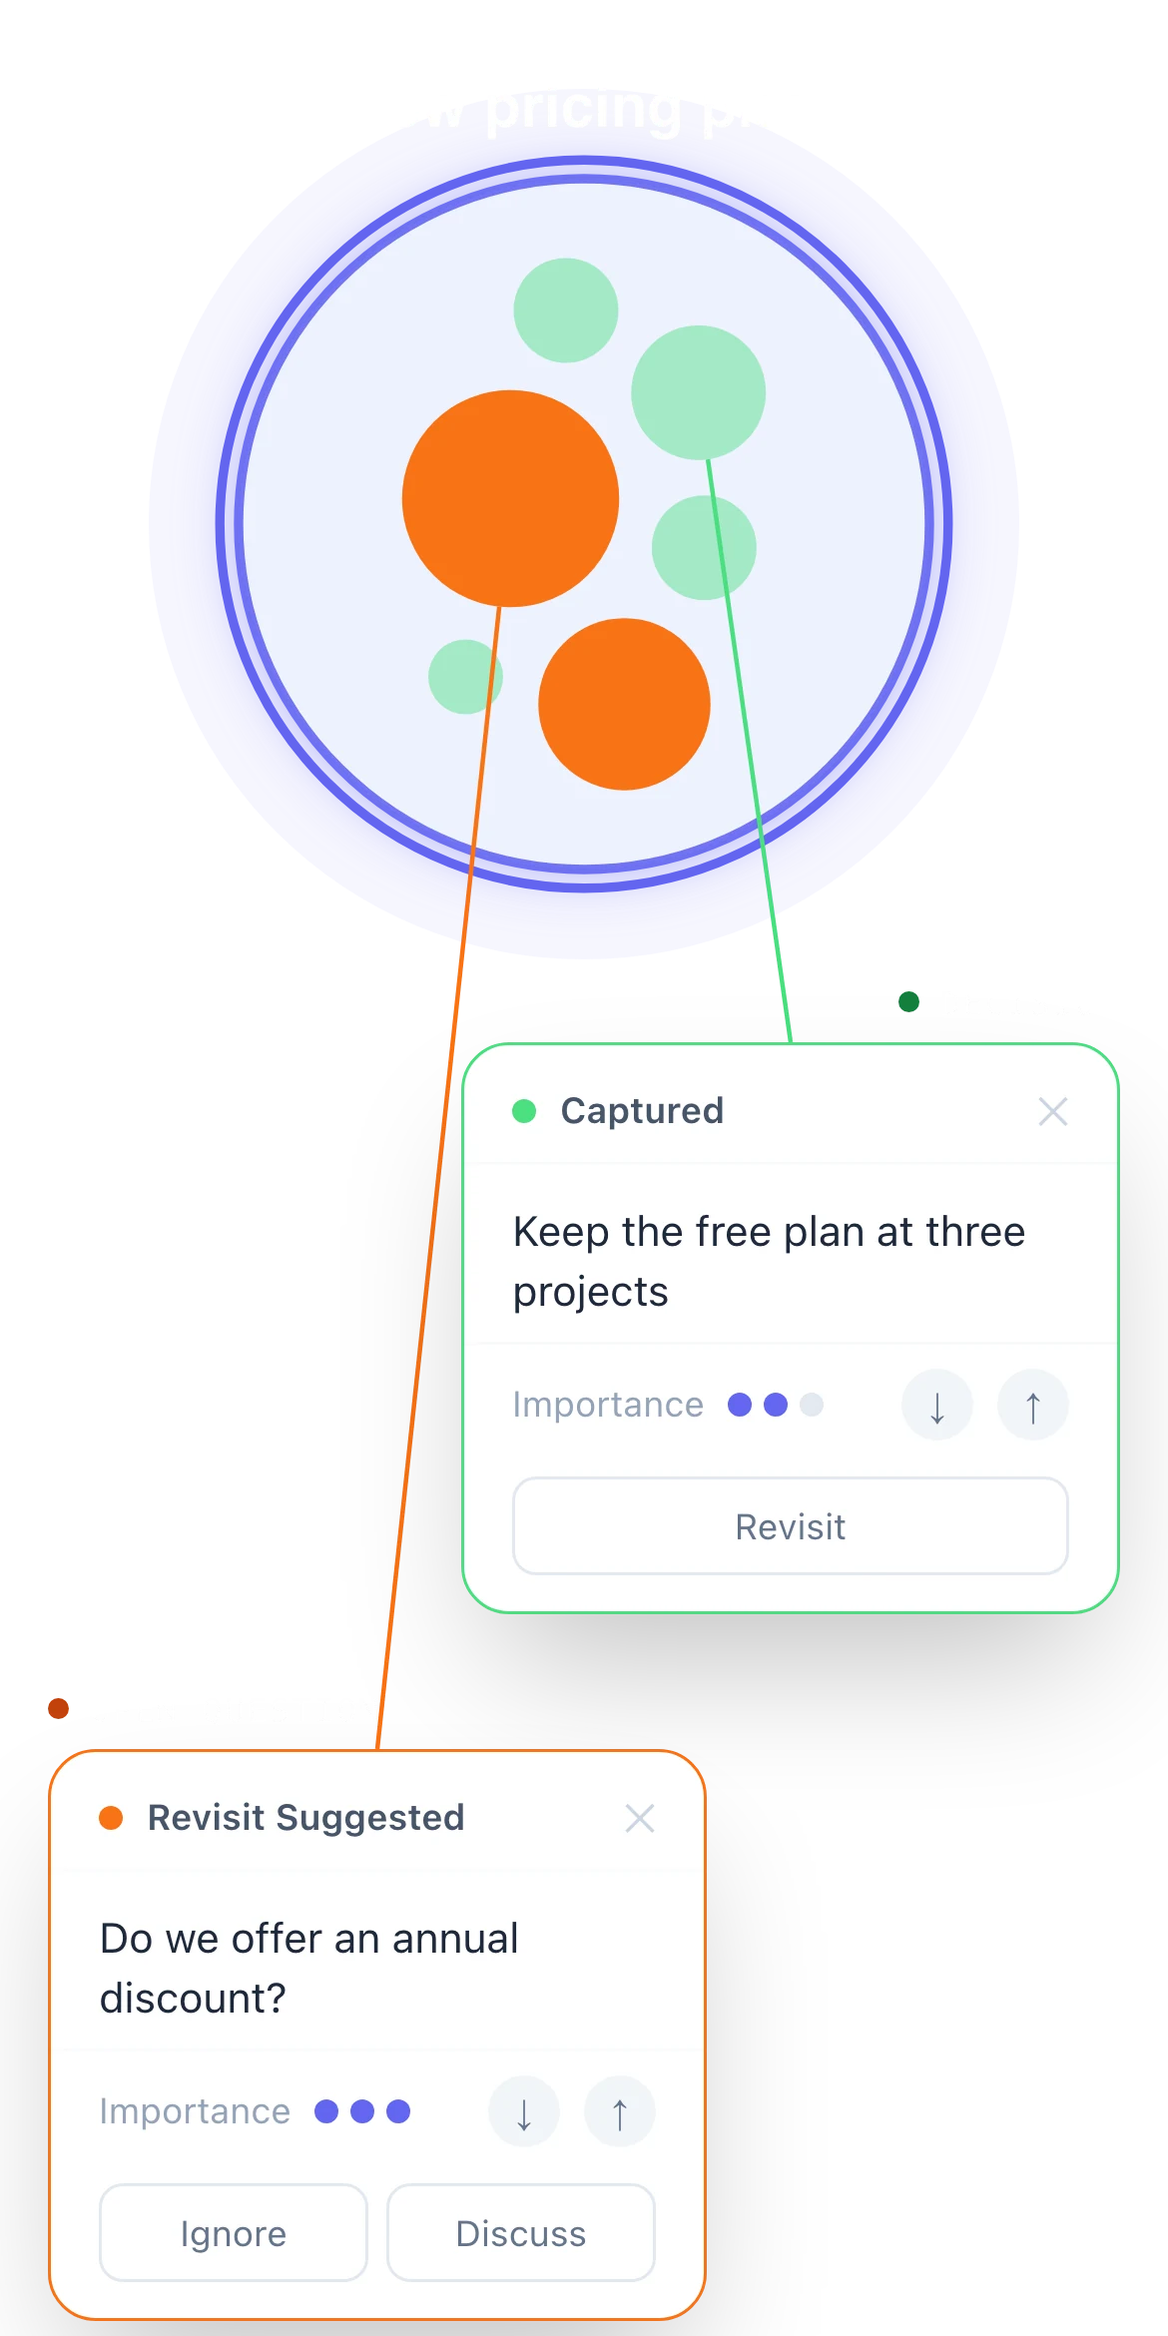
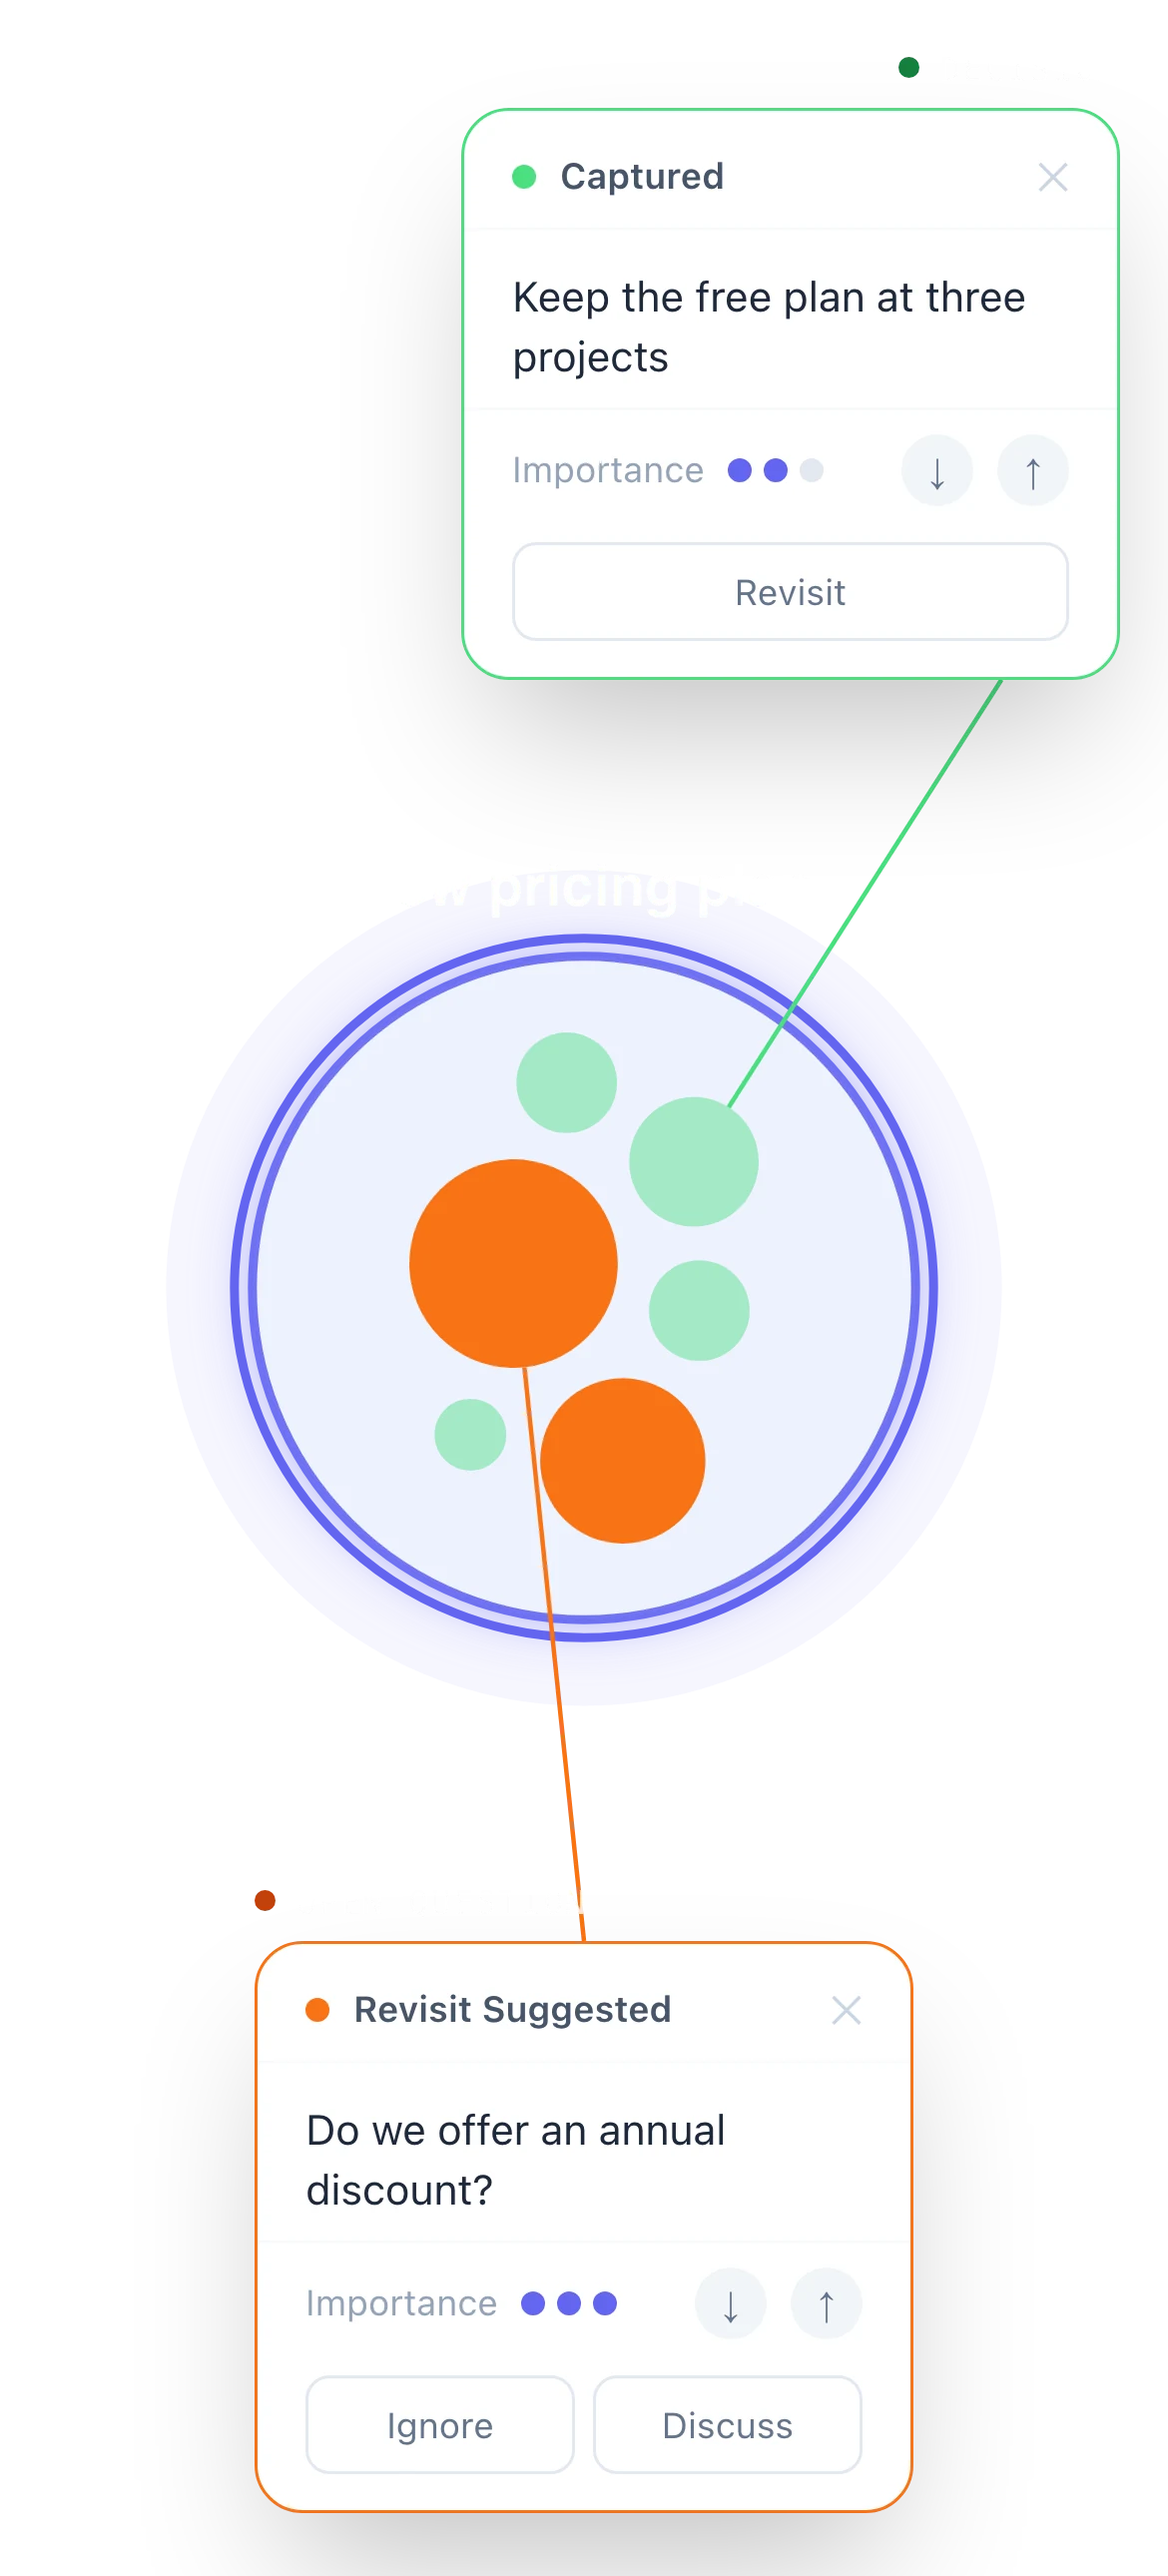
Step scrolling through the approach, comparison and closing; phone fixes
- Hero click toggles between the idea cloud and the map
- Phones: hero map above the name, challenge panels change only on tap,
  New pricing plan figure with one card above and one below
- Desktop: one gesture moves one step through to the end of the page,
  and trackpad momentum after a step is ignored

diff --git a/index.html b/index.html
@@ -414,7 +414,7 @@ html:not(.js) .acc-panel p, html:not(.js) .acc-panel a { color: var(--ink); }
   .grid > * { grid-column: 1 / -1 !important; }
   .intro-text { margin-top: 24px; max-width: 30em; }
   .intro .grid { grid-template-rows: none; }
-  .art { grid-row: auto; margin: 28px auto 0; width: 100%; max-width: 420px; min-height: 0; height: min(84vw, 380px); }
+  .art { grid-row: auto; order: -1; margin: 0 auto 8px; width: 100%; max-width: 420px; min-height: 0; height: min(78vw, 340px); }
   .intro h1 { font-size: clamp(88px, 22vw, 168px); }
 
   
@@ -570,7 +570,7 @@ html:not(.js) .acc-panel p, html:not(.js) .acc-panel a { color: var(--ink); }
               </ul>
             </div>
             <figure class="sol-fig">
-              <div class="frame frame-shot frame-free"><picture><source media="(max-width: 640px)" srcset="assets/product/clarity-m.webp" width="1170" height="2340"><img src="assets/product/clarity.webp" width="2280" height="1680" loading="lazy" decoding="async"
+              <div class="frame frame-shot frame-free"><picture><source media="(max-width: 640px)" srcset="assets/product/clarity-m.webp" width="1170" height="2580"><img src="assets/product/clarity.webp" width="2280" height="1680" loading="lazy" decoding="async"
                    alt="The live topic New pricing plan on the WrapUp map, with four captured and two open points. Two cards are open: a decision, Keep the free plan at three projects, and an open question, Do we offer an annual discount?, with the choice to discuss it or set it aside."></picture></div>
             </figure>
           </article>
@@ -759,8 +759,7 @@ html:not(.js) .acc-panel p, html:not(.js) .acc-panel a { color: var(--ink); }
   // Challenges. On desktop (with motion) the section pins for a short stretch
   // and scrolling opens the panels in turn: all equal at first, then 01, 02,
   // 03. Clicking a heading jumps to its point in the stretch; keyboard focus
-  // opens it too. Stacked (phones, reduced motion), the panel crossing the
-  // middle of the screen opens, and tapping a heading toggles it. Arrow keys,
+  // opens it too. Stacked (phones, reduced motion), tapping a heading toggles it. Arrow keys,
   // Home and End move between headings; Escape collapses.
   const acc = document.querySelector('[data-acc]');
   const chSec = document.getElementById('challenges');
@@ -818,12 +817,9 @@ html:not(.js) .acc-panel p, html:not(.js) .acc-panel a { color: var(--ink); }
     e.preventDefault();
     accBtns[(to + n) % n].focus();
   });
-  if (motion && 'IntersectionObserver' in window) {
-    const chCenter = new IntersectionObserver(entries => entries.forEach(e => {
-      if (e.isIntersecting && !chStaged()) openItem(e.target);
-    }), { rootMargin: '-45% 0px -45% 0px' });
-    accItems.forEach(it => chCenter.observe(it));
-  }
+  // Stacked (phones): panels change only when tapped, so the page never
+  // resizes under a scrolling finger. The first one starts open.
+  if (!chStaged()) openItem(accItems[0]);
 
   // How WrapUp helps. On desktop (with motion) the section is one sticky stage:
   // where you are in its scroll length picks the state shown. Elsewhere the
@@ -885,15 +881,18 @@ html:not(.js) .acc-panel p, html:not(.js) .acc-panel a { color: var(--ink); }
   }));
   // Desktop: through Challenges and With WrapUp, one scroll moves one step,
   // however far the wheel or trackpad travels. The stops, in order: challenges
-  // (all equal), each challenge, each solution, then Our Approach. Outside
-  // that run, and with reduced motion or on phones, scrolling is untouched.
-  const apHead = document.querySelector('.ap-head');
+  // (all equal), each challenge, each solution, Our Approach, the comparison,
+  // the closing, then the very end. Above that run, and with reduced motion
+  // or on phones, scrolling is untouched.
+  const later = ['.ap-head', '.ap-cmp', '.closing'].map(q => document.querySelector(q));
   const stops = () => {
     const pad = 72, ct = chTop(), cl = chLen(), st = solTop(), sl = stageLen();
+    const end = document.documentElement.scrollHeight - innerHeight;
     return [ct - pad, ...OPENS.map(o => ct + cl * (o + .15)), st - pad, st + sl * 1.5, st + sl * 2.5,
-            apHead.getBoundingClientRect().top + scrollY - pad].map(Math.round);
+            ...later.map(el => el.getBoundingClientRect().top + scrollY - pad), end]
+      .map(v => Math.round(Math.min(v, end)));
   };
-  let stepping = false, lastStep = 0, lastWheel = 0, lastDelta = 0;
+  let stepping = false, lastStep = 0, lastWheel = 0, lastDelta = 0, captured = false;
   const stepTo = y => {
     stepping = true; lastStep = performance.now();
     const root = document.documentElement;
@@ -922,12 +921,10 @@ html:not(.js) .acc-panel p, html:not(.js) .acc-panel a { color: var(--ink); }
     const fresh = now - lastWheel > 180 || Math.abs(d) > Math.abs(lastDelta) * 1.6 + 4;
     lastWheel = now; lastDelta = d;
     if (!d) return;
-    if (!fresh) {
-      const S = staged() ? stops() : null;
-      if (S && scrollY > S[0] - 4 && scrollY < S[S.length - 1] + 4 && (stepping || now - lastStep < 700)) e.preventDefault();
-      return;
-    }
-    step(Math.sign(d), e);
+    // the rest of a gesture (trackpad momentum) that already moved one step
+    // is swallowed, however long it runs
+    if (!fresh) { if (captured && staged()) e.preventDefault(); return; }
+    captured = step(Math.sign(d), e);
   }, { passive: false });
   addEventListener('keydown', e => {
     if (e.target.closest('input, textarea, select, [contenteditable]')) return;
@@ -998,8 +995,8 @@ html:not(.js) .acc-panel p, html:not(.js) .acc-panel a { color: var(--ink); }
     const rgb = h => [1, 3, 5].map(i => parseInt(h.slice(i, i + 2), 16));
     const mixHex = (a, b, k) => { const A = rgb(a), B = rgb(b); return 'rgb(' + A.map((v, i) => Math.round(lerp(v, B[i], k))).join(',') + ')'; };
     let W = 0, H = 0, S = 0;
-    // clicking a topic makes it the live one (the halo glides over to it)
-    let live = 2, lastT = null, lastShown = 0, seek = null;
+    const live = 2;   // Next steps is the live topic
+    let lastShown = 0, seek = null;
     const mix = [0, 0, 1];
 
     const size = () => {
@@ -1024,7 +1021,7 @@ html:not(.js) .acc-panel p, html:not(.js) .acc-panel a { color: var(--ink); }
       const sc = k;   // topics hold their size; only the points travel
       const w = TAU * t / L;   // loop phase: every wobble below repeats exactly once per loop
       const T = topics.map(tp => ({ ...tp, ...P(tp.x, tp.y), R: tp.R0 * sc }));
-      lastT = T; lastShown = shown;
+      lastShown = shown;
       const pos = nodes.map(n => {
         const tp = T[n.ti];
         const m = P(n.bx + .03 * Math.sin(w * 2 + n.ph) + .015 * Math.sin(w * 3 + n.ph * 2),
@@ -1113,19 +1110,12 @@ html:not(.js) .acc-panel p, html:not(.js) .acc-panel a { color: var(--ink); }
     }
     addEventListener('resize', () => { size(); if (!motion) draw(3); });
 
-    // Clicking the map: on a topic, it becomes the live one and the map stays a
-    // little longer; while it is still a cloud, the map forms straight away.
-    const hit = e => {
-      if (!lastT || lastShown < .5) return -1;
-      const r = art.getBoundingClientRect(), x = e.clientX - r.left, y = e.clientY - r.top;
-      return lastT.findIndex(tp => Math.hypot(x - tp.x, y - tp.y) <= tp.R + 8);
-    };
-    art.addEventListener('pointermove', e => { art.style.cursor = (hit(e) >= 0 || lastShown < .5) ? 'pointer' : ''; });
-    art.addEventListener('click', e => {
-      const i = hit(e);
-      if (i >= 0) { live = i; if (seek) seek(2); }
-      else if (lastShown < .5 && seek) seek(1.2);
-      if (!motion) draw(3);
+    // Clicking switches the view: the map scatters back into ideas, or the
+    // ideas gather into the map. The loop carries on from there.
+    art.style.cursor = 'pointer';
+    art.addEventListener('click', () => {
+      if (!seek) return;
+      seek(lastShown >= .5 ? 5 : 1.2);
     });
   }
 

diff --git a/README.md b/README.md
@@ -21,8 +21,9 @@ push — Pages redeploys in a minute.
   `<head>`; swap it for a form or scheduling URL if you get one. If no email app
   takes over within about a second, a small panel shows the address with a
   button to copy it.
-- **Scrolling.** On desktop, through Challenges and With WrapUp, one scroll
-  gesture moves exactly one step (the `stops` list in the script).
+- **Scrolling.** On desktop, from Challenges to the end of the page, one
+  scroll gesture moves exactly one step (the `stops` list in the script):
+  each challenge, each solution, Our Approach, the comparison, the closing.
 - **Hero art.** Drawn in the browser, not an image (the "Hero art" block in
   `index.html`'s script): scattered ideas gather into topic groups sized and
   packed by the map's own rules, the last topic live. It loops on a 6-second
